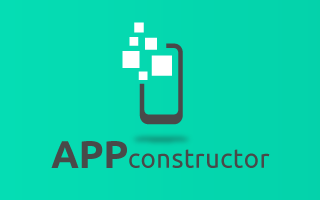
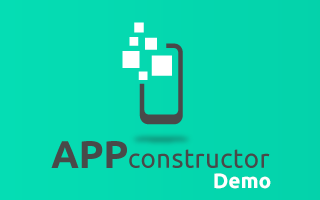
change splach screen

Changed region(s): [[0.6562, 0.87, 0.8438, 0.96]]

diff --git a/js/blockUIWork.js b/js/blockUIWork.js
@@ -1,13 +1,14 @@
 function blockUi(){
      $.blockUI({ css: {
             border: 'none',
-            padding: '15px',
-            backgroundColor: '#000',
-            '-webkit-border-radius': '10px',
-            '-moz-border-radius': '10px',
-            opacity: .5,
-            color: '#fff'
-        } });
+            backgroundColor: '#06C1A1',
+            width: '100%',
+            height: '100%',
+            top: '0',
+            left: '0'
+        },
+        message:   '<img class="splach-ready" src="screen/android/screen-ldpi-portrait.png" />'
+       });
 }
 
 function unBlockUi(){

diff --git a/js/jquery.blockUI.js b/js/jquery.blockUI.js
@@ -203,7 +203,7 @@
 			fadeOut:  400,
 
 			// time in millis to wait before auto-unblocking; set to 0 to disable auto-unblock
-			timeout: 0,
+			timeout: 2000,
 
 			// disable if you don't want to show the overlay
 			showOverlay: true,

diff --git a/css/site.css b/css/site.css
@@ -665,3 +665,7 @@ margin: auto;
   background-position: center;
   background-size: cover;
 }
+.splach-ready{
+  width: 100%;
+  height: auto;
+}
